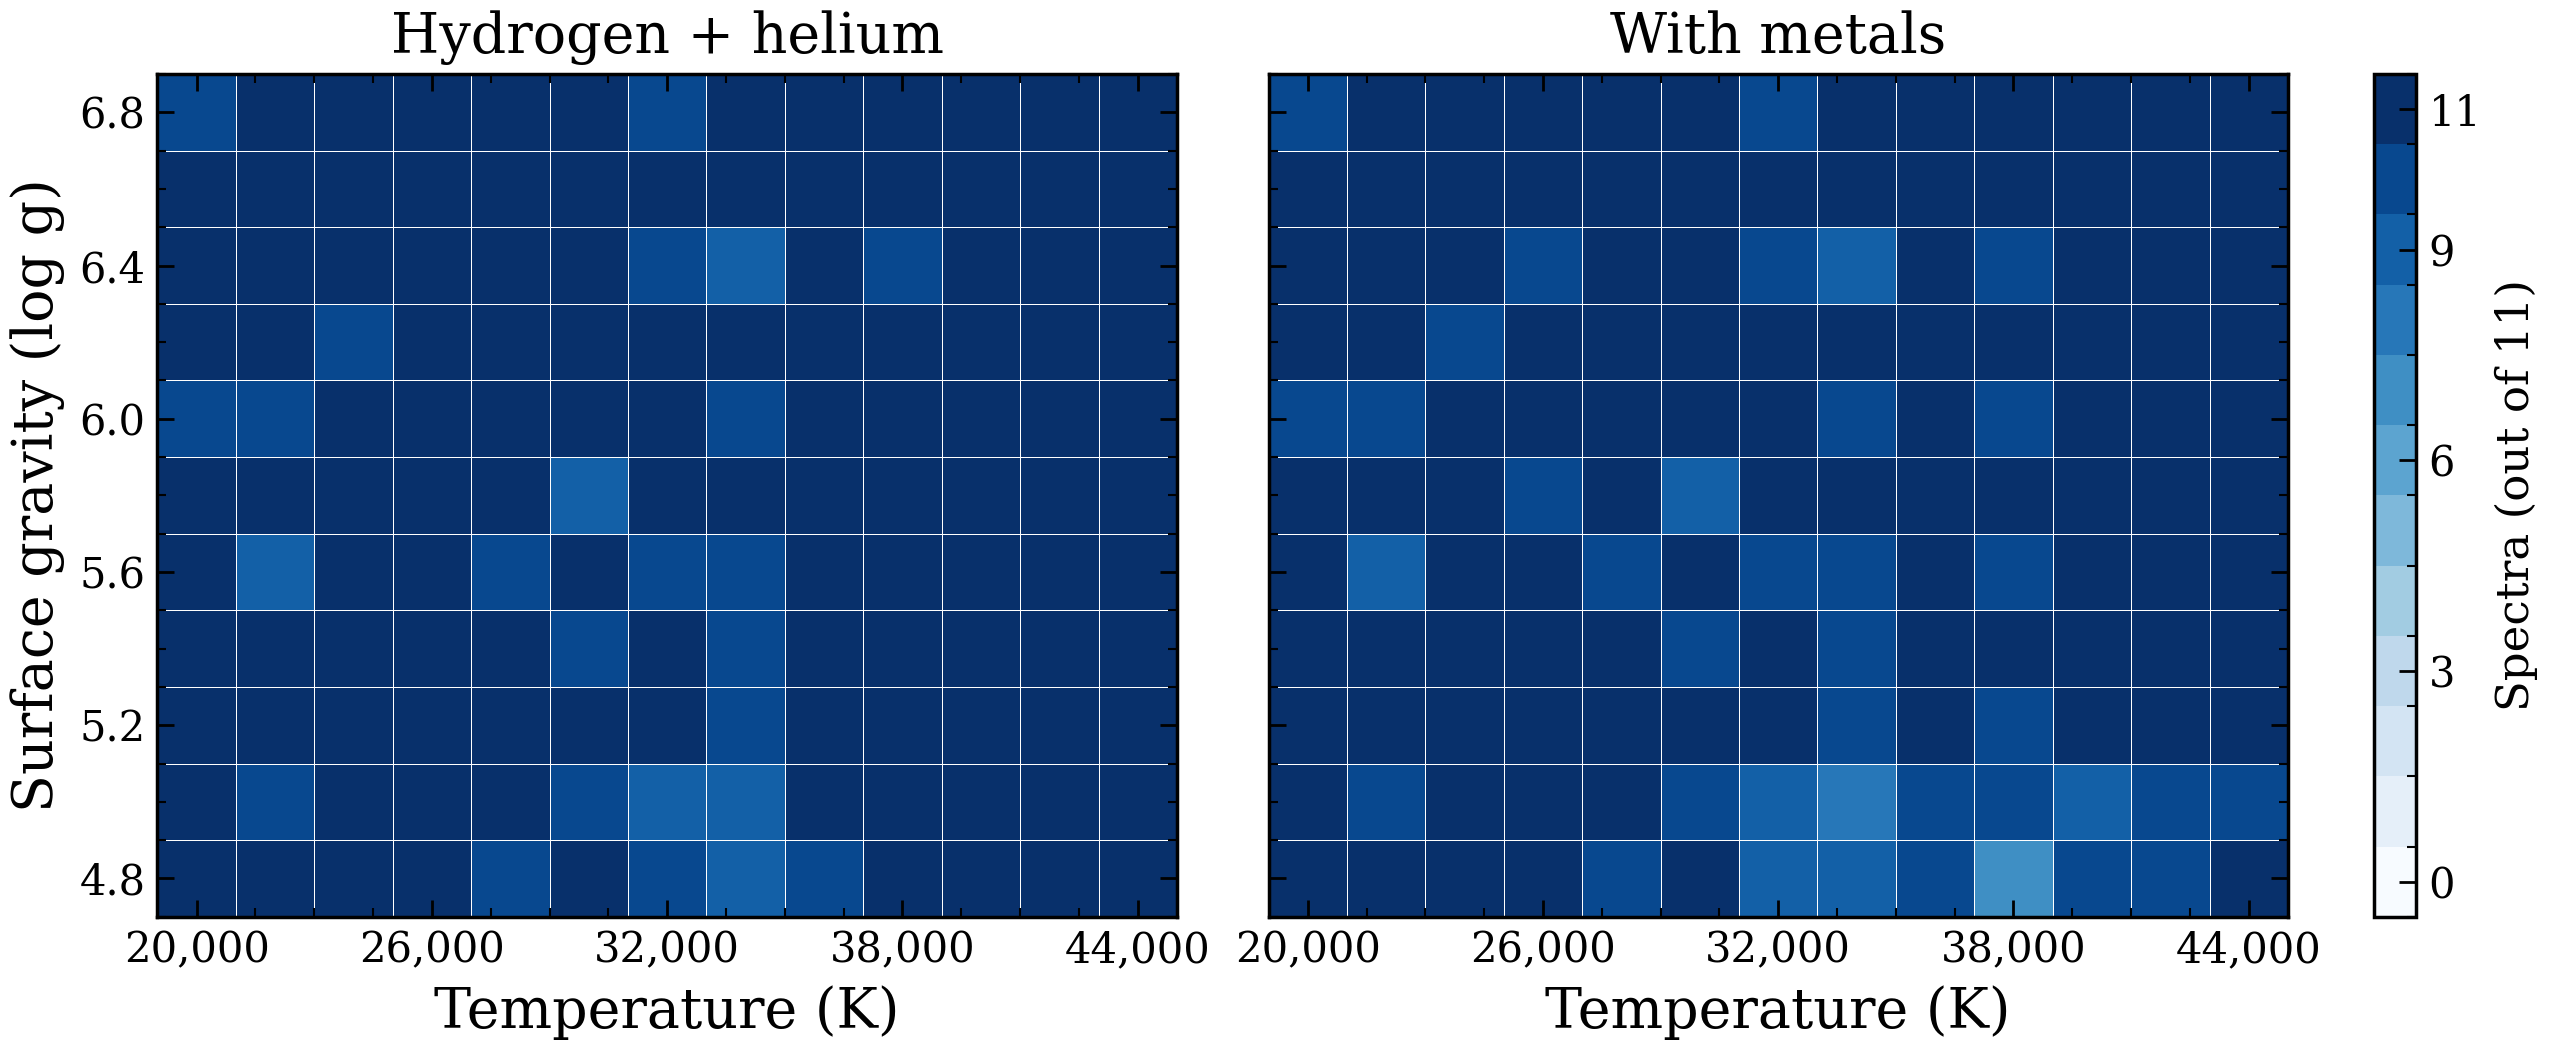
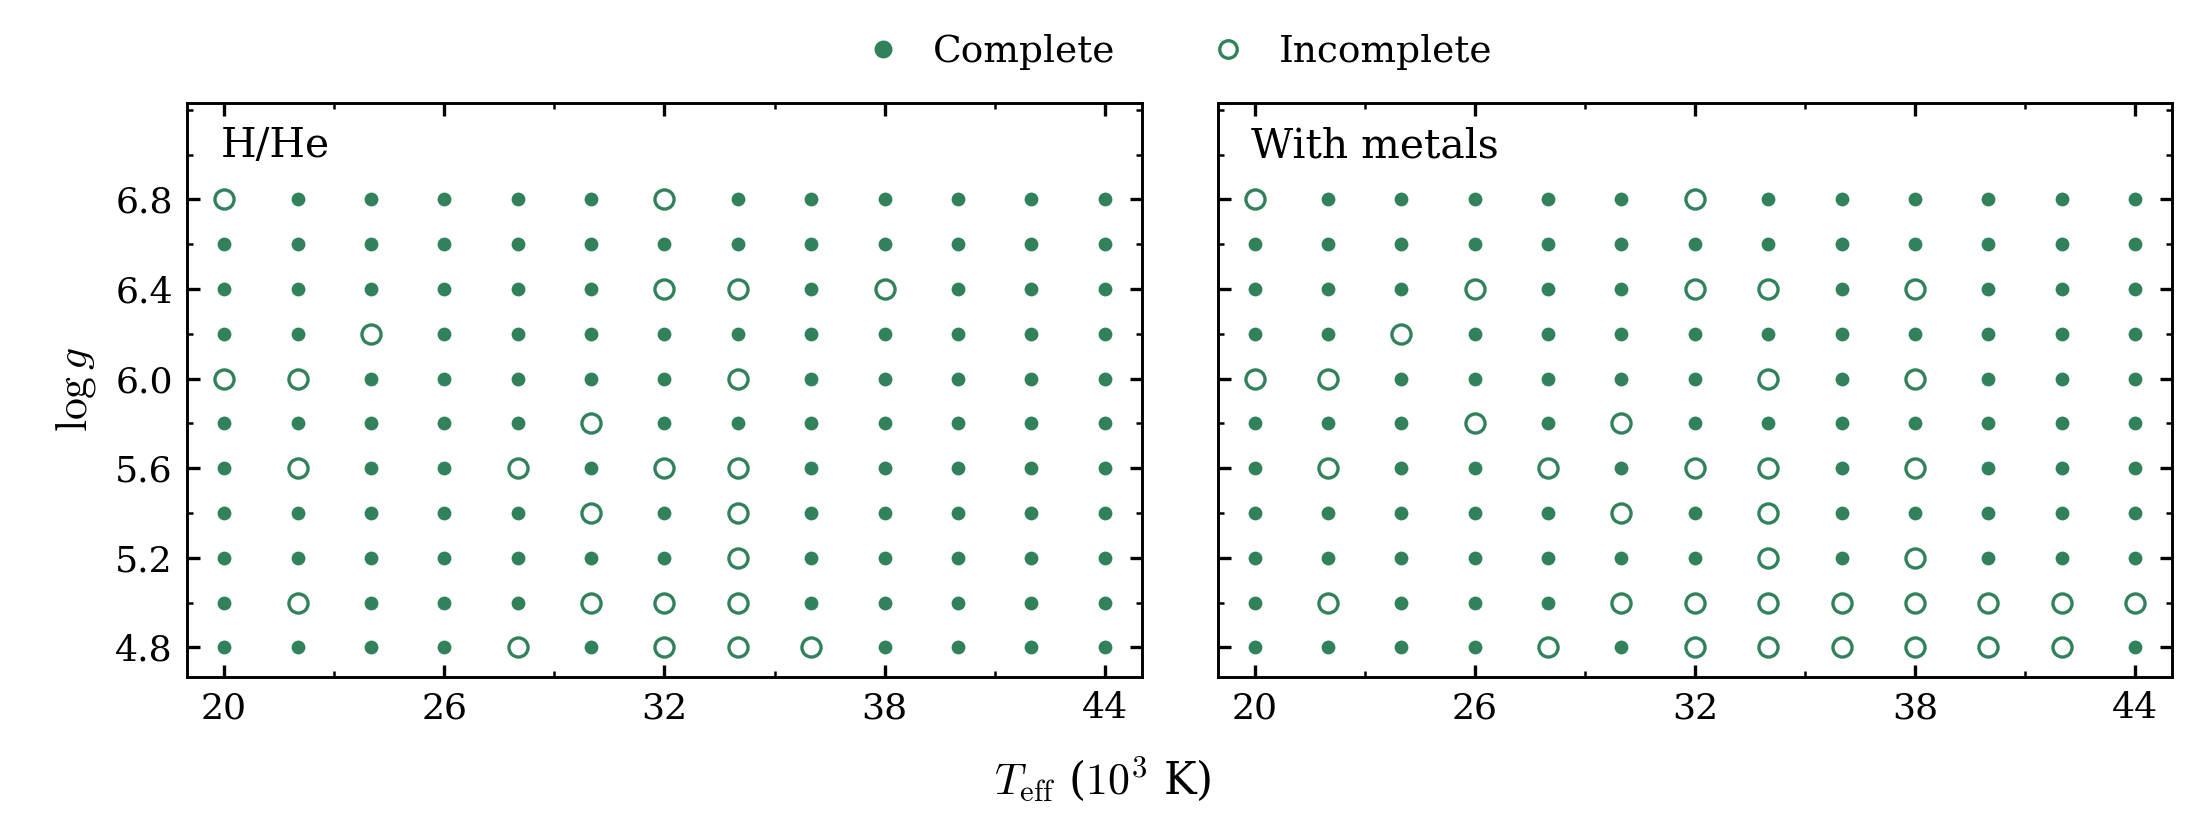
Update sdB coverage PNG

diff --git a/docs/grids/sdb-2026-10-26/figures/coverage-summary.md b/docs/grids/sdb-2026-10-26/figures/coverage-summary.md
@@ -2,10 +2,10 @@
 
 The final grids contain 1,542 hydrogen-and-helium spectra and 1,523 spectra with metals.
 
-[![Temperature and gravity coverage](coverage-temperature-gravity.png)](coverage-temperature-gravity.pdf)
+![Temperature and gravity coverage](coverage-temperature-gravity.png)
 
-Each cell counts the spectra available at 11 helium abundances, from log10(He/H) = −5 to 0. The horizontal axis is temperature in kelvin. The vertical axis is log10 of surface gravity in cm s⁻². Dark blue means all 11 spectra are available. Lighter cells have missing spectra.
+Each point is one temperature and surface gravity. Filled circles have spectra at all 11 helium abundances. Open circles have at least one missing spectrum. The helium abundances span log10(He/H) = −5 to 0.
 
 The metal spectra include hydrogen and helium, with C/N/O/Si/S in NLTE and Ca in LTE at one fixed composition. The two panels show separate grids; their counts are not added together. Failed points remain masked. Physical accuracy and interpolation accuracy are not established.
 
-[Data and fitting notes](../README.md) · [Detailed coverage and additions](grid-coverage.pdf) · [Earlier figure caption](CAPTION.md)
+[Data and fitting notes](../README.md) · [Earlier heatmap](coverage-temperature-gravity.pdf) · [Detailed coverage and additions](grid-coverage.pdf) · [Earlier figure caption](CAPTION.md)
